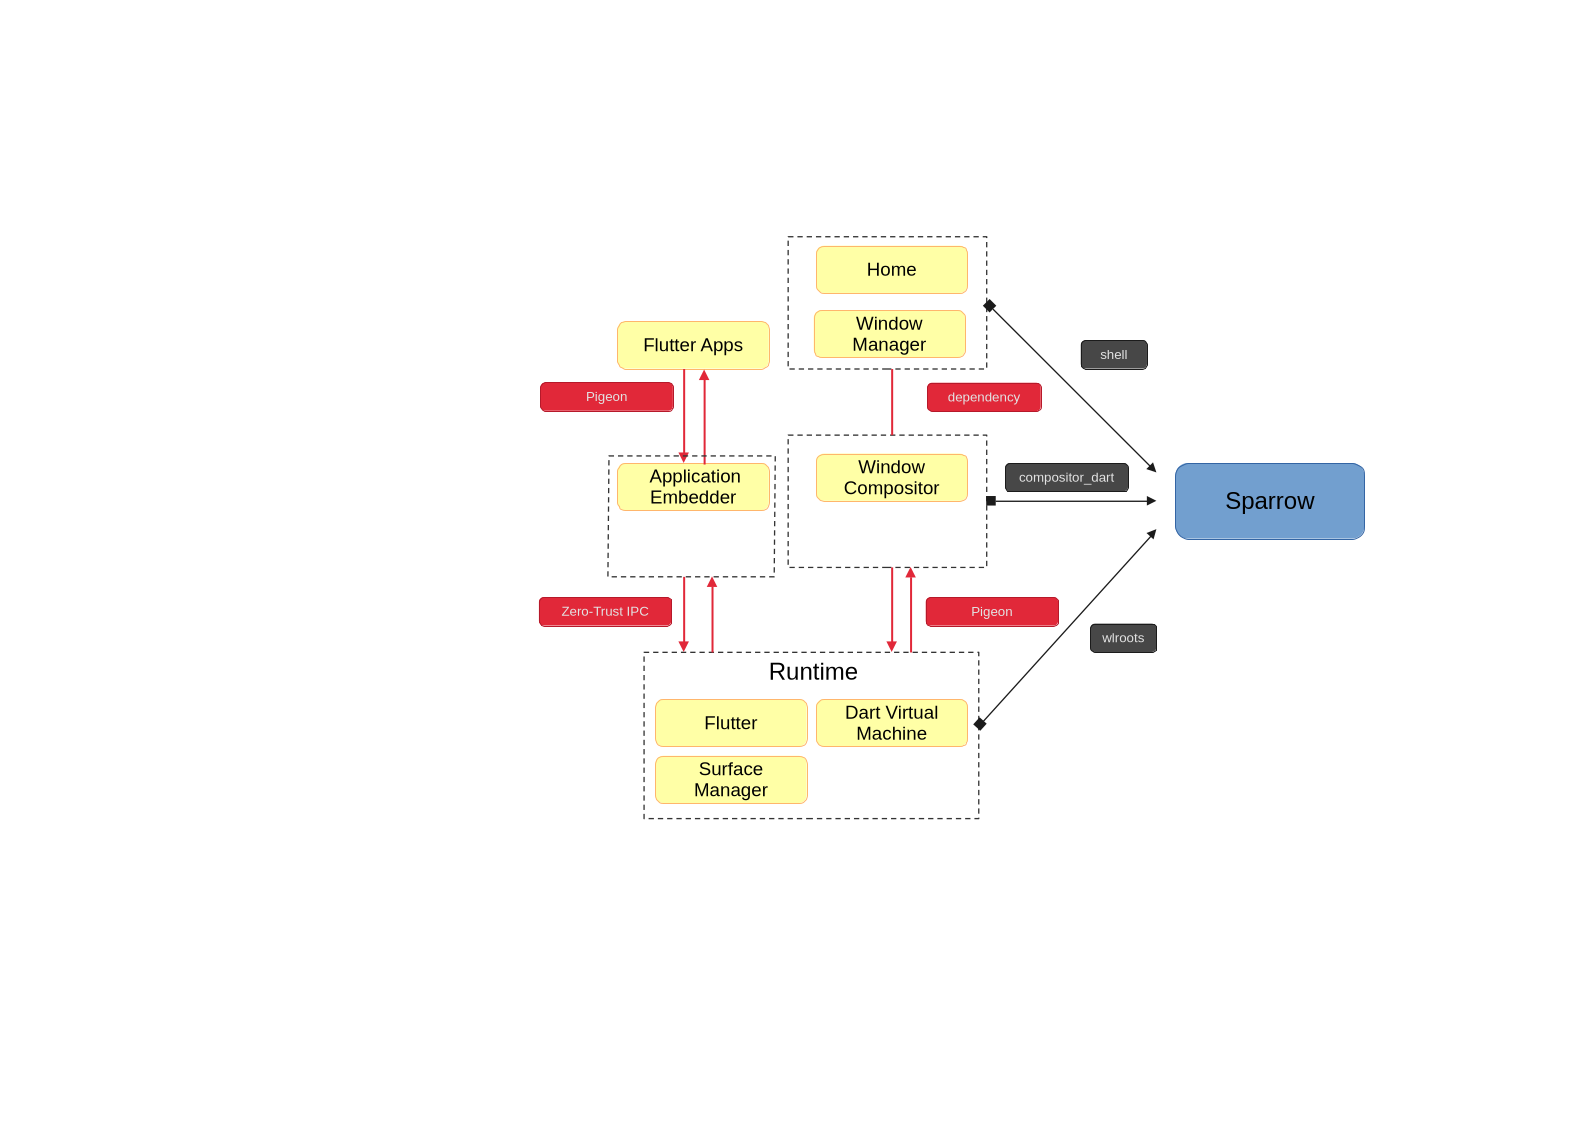
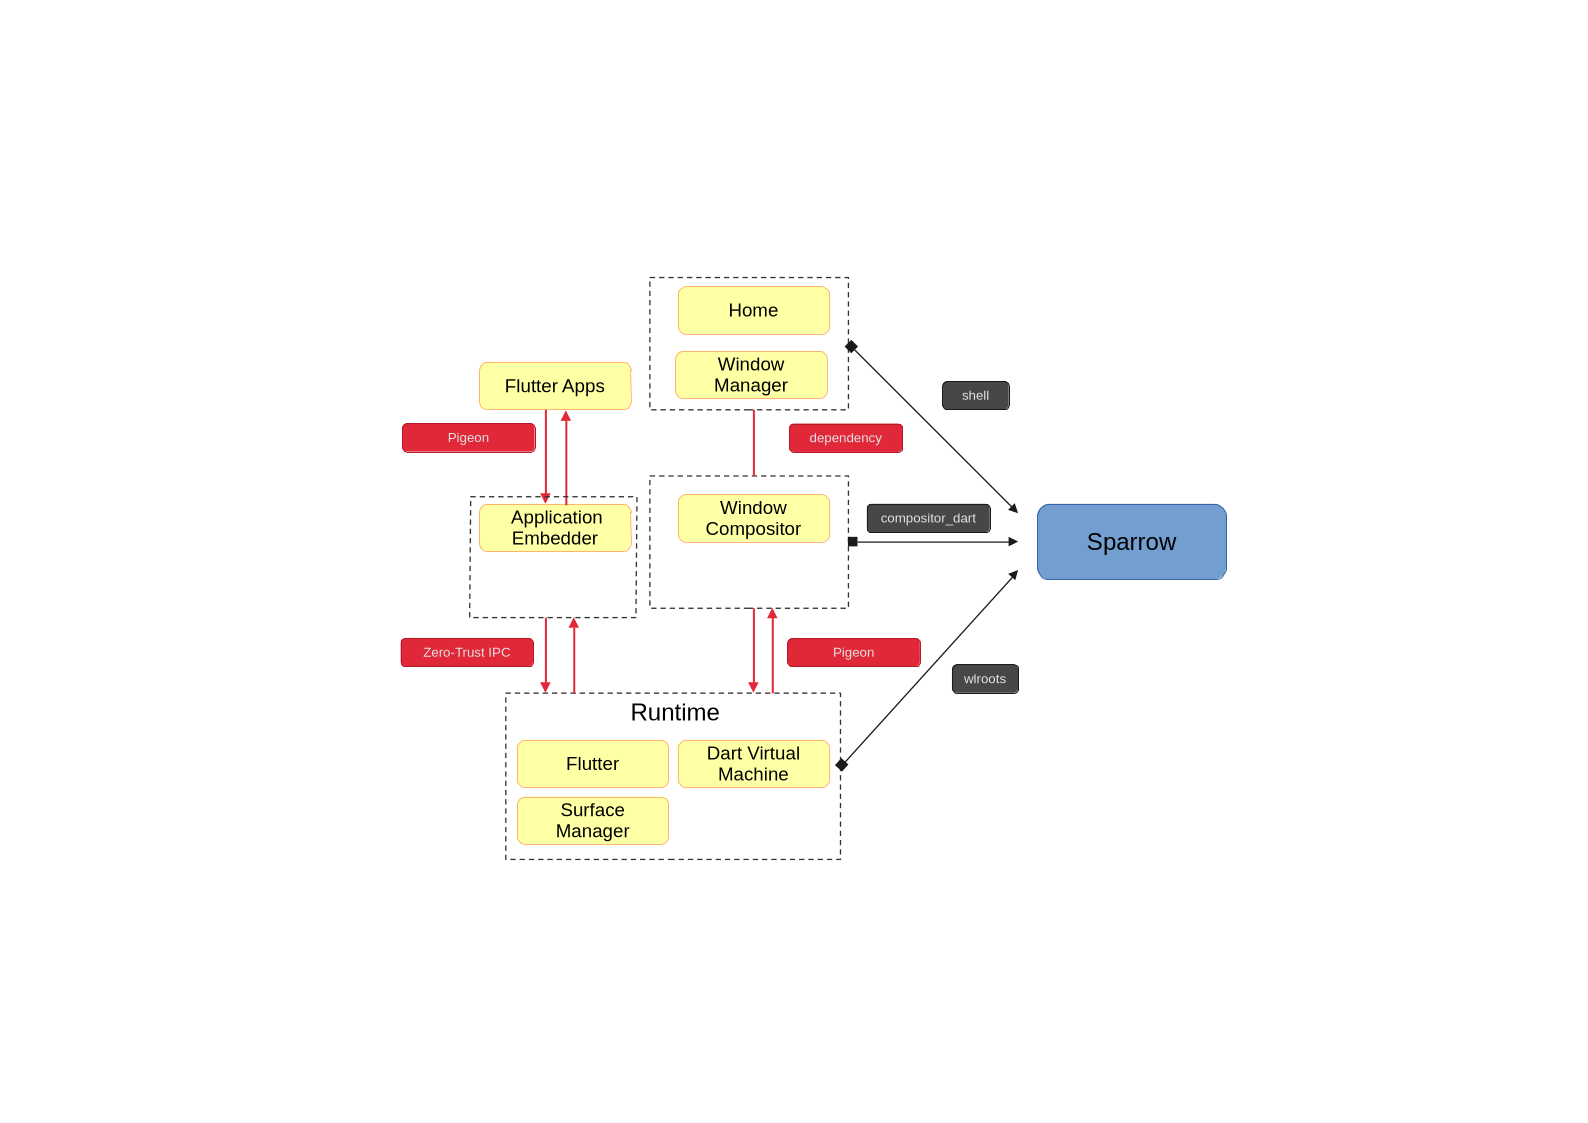
update documentation

Changed region(s): [[0.2469, 0.2182, 0.864, 0.7792], [0.2469, 0.5298, 0.432, 0.6233], [0.6788, 0.2805, 0.7406, 0.3428]]

diff --git a/README.md b/README.md
@@ -68,7 +68,7 @@ Make sure you have the required development libraries installed:
 - `wayland-protocols`, `libwayland(devel)`
 - `libdrm(devel)`, `libinput(devel)`, `libxkbcommon(devel)`, `libpixman(devel)`
 - `libegl(devel)`, `libgles2(devel)`, `libgbm(devel)`, `libdisplay-info(devel)`
-- `vulkan(devel)` / `vulkan-headers` / `libvulkan-dev` (for Vulkan Wayland runner & Impeller backend)
+- `vulkan(devel)` / `vulkan-headers` / `libvulkan(devel)` (for Vulkan Wayland runner & Impeller backend)
 - Flutter SDK (on `PATH`)
 
 - `wlrctl` and one of the following terminal emulators may be required during the build process:
@@ -252,16 +252,31 @@ Run the compiled executable located in `./out/sparrow`:
 
 ---
 
-## ⌨ Runtime Hotkeys & CLI Options
+## ⌨ Runtime configuration, Hotkeys & CLI Options
+
+### INI configuration file
+Sparrow uses an INI file for runtime configuration. The file is located at `~/.config/sparrow/sparrow.ini`.
+
+```ini
+[Theme]
+wallpaper = [PATH_TO_YOUR_IMAGE] (ex. /home/username/Pictures/image.png)
+
+[Commands]
+launcher = [YOUR_LAUNCHER_APPLICATION]
+terminal = [YOUR_TERMINAL_APPLICATION] (ex. alacritty or foot or kitty or weston-terminal or xterm)
+logout = [YOUR_LOGOUT_APPLICATION] (ex. wayland-logout)
+```
+
+**NOTE**: Due to the fact that Sparrow does not yet support the layer-shell protocol, the `launcher` must not be set to an application that requires layer-shell to be able to run.
 
 ### Interactive Hotkeys
 | Hotkey | Feature | Description |
 | :---: | :--- | :--- |
-| **`Ctrl` + `Alt` + `Suppr`** | **Logout** | Log out the compositor |
-| **`Super`** | **Application Launcher** | Launches the prefered application launcher. |
+| **`Ctrl` + `Alt` + `Suppr`** | **Logout** | Launches the logout command defined in `sparrow.ini` (see `[Commands].logout` field). |
+| **`Super`** | **Application Launcher** | Launches the application launcher defined in `sparrow.ini` (see `[Commands].launcher` field). |
 | **`Alt Left`** | **Overview Mode** | Toggles show/hide overview of all running applications in a carousel-like view. |
 | **`Super` + `Q`** | **Quit Application** | Closes the focused window or application. |
-| **`Super` + `Enter`** | **Terminal Launcher** | Launches the prefered terminal emulator. |
+| **`Super` + `Enter`** | **Terminal Launcher** | Launches the terminal emulator defined in `sparrow.ini` (see `[Commands].terminal` field). |
 | **`Super` + `Scroll`** | **Desktop Zoom In / Out** | Continuous screen zoom centered smoothly on the cursor. |
 | **`Super` + `+/-`** | **Desktop Zoom Step** | Increments or decrements the screen magnification level. |
 | **`Super` + `0`** | **Reset Desktop Zoom** | Smoothly resets desktop magnification back to 1.0x (100%). |
@@ -399,8 +414,10 @@ Sparrow is an independent Wayland compositor built with Flutter and wlroots. It 
 - **[flutter-elinux](https://github.com/sony/flutter-elinux) & [ivi-homescreen](https://github.com/toyota-connected/ivi-homescreen)**: engine & Wayland integration approaches.
 - **[wlroots](https://gitlab.freedesktop.org/wlroots/wlroots)**: Pluggable, composable Wayland compositor library powering the low-level compositor core.
 - **[niri](https://github.com/niri-wm/niri)**: Wayland compositor architectural inspiration.
+- **[Weston](https://gitlab.freedesktop.org/wayland/weston)**: Wayland reference implementation.
+- **[Sway](https://github.com/swaywm/sway)**: Wlroots reference implementation.
 
-- **[Android](https://source.android.com/)**: main inspiration...
+- **[Android](https://source.android.com/) & [Chrome OS](https://opensource.google/projects/chromiumos)**: main inspiration...
 
 ---
 
